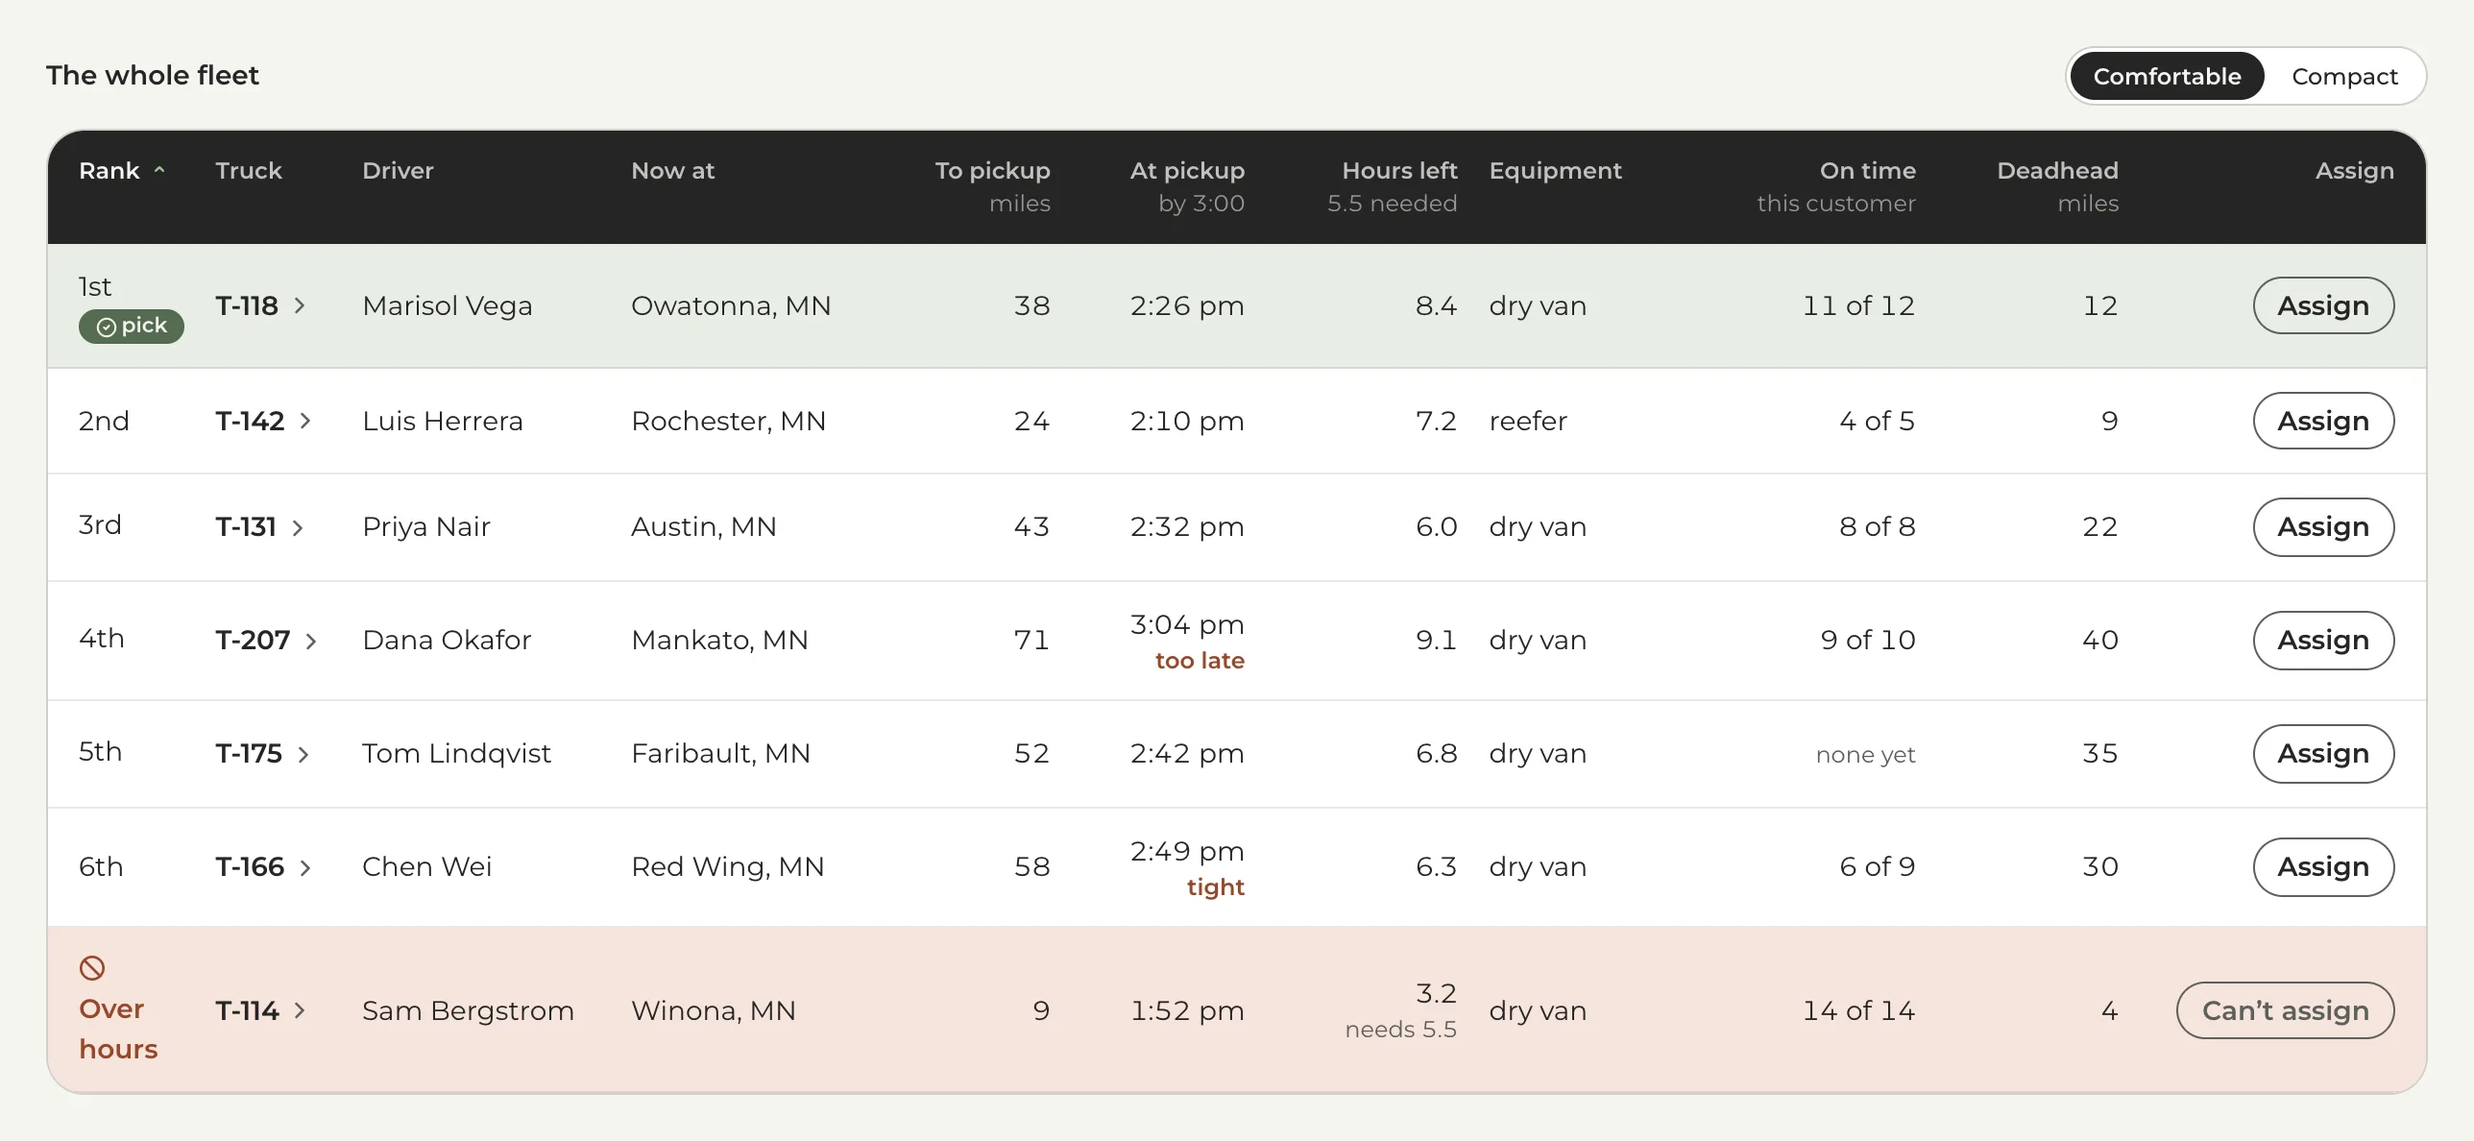
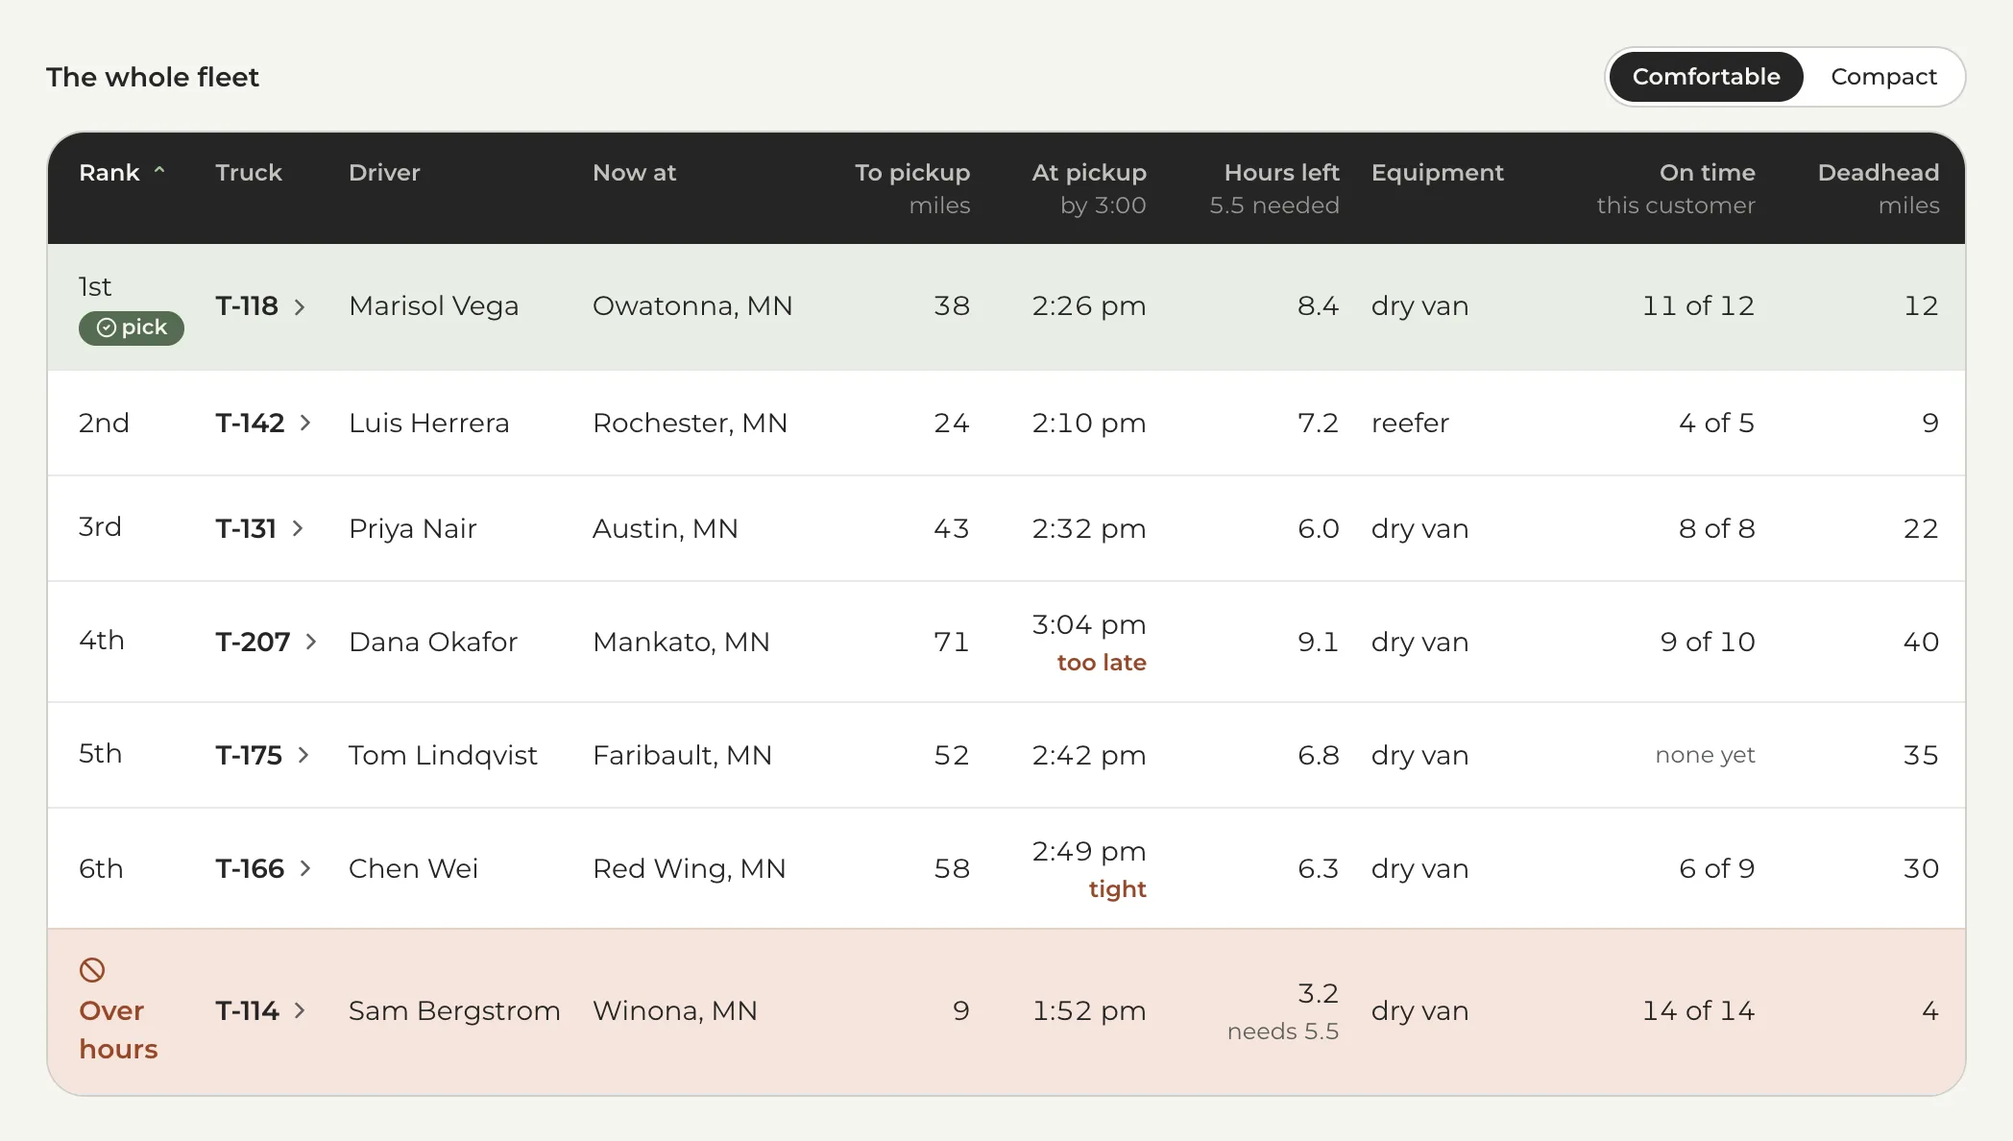
The five decisions put the argument at its measure and every capture at its own size
The section split the container in half and let four of the seven captures
span the whole row, which put two pictures of the same interface on screen
at wildly different scales and presented them as though they were at one.
The rule card is 651px drawn and was printed at 1216, an enlargement of
1.87 -- the frame shouting over the paragraph it is evidence for. The
close-call decision kept its copy in one half with nothing in the other,
then a slab underneath: the void was the awkward part, not the picture.

Now the copy column is set from the measure at 28rem and the pictures are
capped individually, each at the size it was drawn -- half its file, since
these are taken at two device pixels to one. Nothing is sized to a fraction
of the container. The two decisions whose evidence is a whole screen run in
one column with the picture under the argument and aligned to it, so the
disc is the only thing left in the margin.

Their three captures are retaken at a 1080 viewport rather than 1320. The
data table is 60rem before it scrolls, so 1080 is the narrowest panel that
still holds it whole, and a screen now comes out about 1048 drawn and sits
inside the 64rem cap at very nearly 1:1 -- smaller at its own scale, rather
than the same picture shrunk.

The two-column split waits for 72rem. At 64rem the evidence column came out
470 and a 622px card capture was shrunk into it by a quarter, which is the
columns arriving before there is room for them.
[…]

diff --git a/prototype/dispatch-cockpit.html b/prototype/dispatch-cockpit.html
@@ -106,7 +106,7 @@
   <link rel="stylesheet" href="../type.css?v=5" />
   <link rel="stylesheet" href="../style.css?v=20260919a" />
   <link rel="stylesheet" href="../site-nav.css?v=20260918b" />
-  <link rel="stylesheet" href="dispatch-cockpit.css?v=30" />
+  <link rel="stylesheet" href="dispatch-cockpit.css?v=31" />
   <link rel="stylesheet" href="../read-aloud.css?v=2" />
   <!-- EMBED MODE, and why it is a flag on this page rather than a page of
        its own. The homepage's prototype card opens the cockpit in a tablet
@@ -674,7 +674,7 @@
                 </div>
               </details>
             </div>
-            <figure class="ckw-shot">
+            <figure class="ckw-shot ckw-shot--card">
               <div class="ckw-scroll">
                 <img src="../img/cockpit/factors.webp?v=7" width="1244" height="1566" loading="lazy" decoding="async" alt="The recommendation card for truck T-118, headed &ldquo;What went into the call&rdquo;. Under the truck and its location, a line reads &ldquo;At pickup by 2:26 pm, in the window, 34 min of room&rdquo;. Then five factors with their values and whether each helps, meets or is neutral, three of them with a small line under the name saying where the figure came from and how long ago, each over a bar showing where the truck sits against the fleet, then a key to the bars, a note about what the comparison is not, and an Assign button." />
               </div>
@@ -693,15 +693,15 @@
                 </div>
               </details>
             </div>
-            <figure class="ckw-shot ckw-shot--wide">
+            <figure class="ckw-shot">
               <ol class="ckw-frames">
-                <li>
+                <li class="ckw-frame--rule">
                   <div class="ckw-scroll">
                     <img src="../img/cockpit/rule.webp?v=2" width="1302" height="394" loading="lazy" decoding="async" alt="A caution-outlined card reading &ldquo;T-114, Sam Bergstrom, can&rsquo;t take this load. Needs 5.5 h, has 3.2 h left. The hours-of-service limit, not a score. Otherwise it would rank first: 9 mi to pickup, 14 of 14 on time with Northfield Foods, 4 mi of deadhead. None of that changes the rule.&rdquo;" />
                   </div>
                   <p class="ckw-frame-cap"><span>A rule</span> Removes the truck before scoring, and keeps its row and its reason.</p>
                 </li>
-                <li>
+                <li class="ckw-frame--stale">
                   <div class="ckw-scroll">
                     <img src="../img/cockpit/stale.webp?v=6" width="1776" height="518" loading="lazy" decoding="async" alt="Under the close-call heading, a note on the caution ground with a clock glyph: &ldquo;T-131&rsquo;s hours are 45 minutes old. The last reading left 30 minutes to spare on this run. Check the logbook before assigning T-131.&rdquo;" />
                   </div>
@@ -711,7 +711,7 @@
             </figure>
           </li>
 
-          <li class="ckw-decision">
+          <li class="ckw-decision ckw-decision--screen">
             <div class="ckw-decision-copy">
               <h3>Make disagreement cheap</h3>
               <p class="ckw-lead">The dispatcher has the phone call the system cannot hear. Assign sits on every row the rule allows, with no dialog in the way. The question about why comes after, is optional, and Skip weighs the same as Save.</p>
@@ -723,17 +723,17 @@
                 </div>
               </details>
             </div>
-            <figure class="ckw-shot ckw-shot--wide">
+            <figure class="ckw-shot">
               <ol class="ckw-frames">
                 <li>
                   <div class="ckw-scroll">
-                    <img src="../img/cockpit/override-choose.webp?v=5" width="2572" height="532" loading="lazy" decoding="async" alt="The top of the fleet data table: a head row of sortable columns, then the recommended truck T-118 and two others, each row ending in an Assign button that is present whether or not the system picked that truck." />
+                    <img src="../img/cockpit/override-choose.webp?v=6" width="2278" height="532" loading="lazy" decoding="async" alt="The top of the fleet data table: a head row of sortable columns, then the recommended truck T-118 and two others, each row ending in an Assign button that is present whether or not the system picked that truck." />
                   </div>
                   <p class="ckw-frame-cap"><span>First</span> Assign sits at the end of every row the rule allows, not only the recommended one.</p>
                 </li>
                 <li>
                   <div class="ckw-scroll">
-                    <img src="../img/cockpit/override-after.webp?v=10" width="2576" height="1120" loading="lazy" decoding="async" alt="After an override: a status line reading that load L-4821 is assigned to T-114, the truck ranked 3rd, with its pickup time, its room against the window and the driver hours left after the run, and an optional question below it offering three reasons, a free-text box, a note about what happens with the answer, and Save the reason and Skip buttons." />
+                    <img src="../img/cockpit/override-after.webp?v=11" width="2096" height="1120" loading="lazy" decoding="async" alt="After an override: a status line reading that load L-4821 is assigned to T-114, the truck ranked 3rd, with its pickup time, its room against the window and the driver hours left after the run, and an optional question below it offering three reasons, a free-text box, a note about what happens with the answer, and Save the reason and Skip buttons." />
                   </div>
                   <p class="ckw-frame-cap"><span>Then</span> The assignment and what it means: pickup time, room against the window, hours left after the run. The question, afterwards and optional; Undo takes the place of Assign on the row, and sits out a double press.</p>
                 </li>
@@ -753,7 +753,7 @@
                 </div>
               </details>
             </div>
-            <figure class="ckw-shot">
+            <figure class="ckw-shot ckw-shot--card">
               <div class="ckw-scroll">
                 <img src="../img/cockpit/outcomes.webp?v=6" width="1244" height="1132" loading="lazy" decoding="async" alt="The Outcomes on similar loads card, expanded: 38 of the last 40 on time, a note that the history is illustrative, two numbered lines headed What to watch for on this load, and under a rule the two late deliveries listed with what differed on each." />
               </div>
@@ -761,7 +761,7 @@
             </figure>
           </li>
 
-          <li class="ckw-decision">
+          <li class="ckw-decision ckw-decision--screen">
             <div class="ckw-decision-copy">
               <h3>Keep the whole fleet in reach</h3>
               <p class="ckw-lead">The recommendation is assistance, not the only route through the task. Every column sorts, every eligible row assigns, every row opens on the reasoning behind its place, and nothing is collapsed behind the suggestion. If the recommendation vanished tomorrow, this would still be a dispatch screen.</p>
@@ -772,9 +772,9 @@
                 </div>
               </details>
             </div>
-            <figure class="ckw-shot ckw-shot--wide">
+            <figure class="ckw-shot">
               <div class="ckw-scroll">
-                <img src="../img/cockpit/fleet.webp?v=5" width="2576" height="1188" loading="lazy" decoding="async" alt="The whole fleet data table under a heading reading &ldquo;The whole fleet&rdquo; and a Comfortable or Compact row-height switch. Seven trucks ranked, each with distance, the time it would reach the pickup, hours left, equipment, on-time record and deadhead, a chevron beside the truck number that opens the row, and an Assign button. T-207 shows 3:04 pm marked &ldquo;too late&rdquo; and T-166 shows 2:49 pm marked &ldquo;tight&rdquo;. The last row, T-114, is marked Over hours, shows 3.2 hours against 5.5 needed, and its button reads Can&rsquo;t assign." />
+                <img src="../img/cockpit/fleet.webp?v=6" width="2096" height="1188" loading="lazy" decoding="async" alt="The whole fleet data table under a heading reading &ldquo;The whole fleet&rdquo; and a Comfortable or Compact row-height switch. Seven trucks ranked, each with distance, the time it would reach the pickup, hours left, equipment, on-time record and deadhead, a chevron beside the truck number that opens the row, and an Assign button. T-207 shows 3:04 pm marked &ldquo;too late&rdquo; and T-166 shows 2:49 pm marked &ldquo;tight&rdquo;. The last row, T-114, is marked Over hours, shows 3.2 hours against 5.5 needed, and its button reads Can&rsquo;t assign." />
               </div>
               <figcaption>Every row opens on its own reasoning, the rows run comfortable or compact, and the one truck the rule removes keeps its row, its numbers and the reason.</figcaption>
             </figure>

diff --git a/prototype/dispatch-cockpit.css b/prototype/dispatch-cockpit.css
@@ -148,32 +148,32 @@
   gap: var(--space-2xl);
   align-items: start;
 }
-/* HALVES, BECAUSE A CAPTURE SHOULD NOT BE ENLARGED EITHER. This was a fixed
-   26rem of copy and 1fr of picture, on the argument that the prose stops
-   getting easier to read past the measure and every pixel the picture does
-   not get is a pixel of interface rendered smaller than it was drawn. The
-   second half of that was only half true, and the numbers say where it broke:
-   inside the 1280px container the card captures rendered 752px wide against
-   the 622px they were drawn at, which is not the picture keeping its size,
-   it is the picture being enlarged by a fifth. Upscaling a screenshot of an
-   interface softens every edge the interface drew crisply, and it makes two
-   cards shout over the prose they are evidence for.
+/* THE ARGUMENT AT ITS MEASURE, THE EVIDENCE AT ITS OWN SIZE. This was halves,
+   on the argument that a capture should not be enlarged and half the
+   container was near the size the card captures were drawn at. Half was
+   near, and near in the wrong direction: the card is 622 and half of the
+   container is 584, so the two card captures were the only pictures on the
+   site rendered UNDER their own scale, and every one of the four that span
+   the row was rendered over it -- the rule card worst, at 651 drawn and 1216
+   shown, which is an enlargement of 1.87 and is what makes that frame shout
+   over the paragraph it is evidence for.
 
-   At halves the card renders 584 against 622, or 0.94 -- which is what the
-   two full-row fleet captures below already do at 1216 against 1286. So at
-   the full container all four captures sit a hair under the size they were
-   drawn, rather than two of them at 1.21 and two at 0.95. That is also why no
-   zoom affordance came with this: a capture at its own scale has nothing left
-   to reveal, and a lightbox would be offering to undo an enlargement that is
-   no longer happening. (Below 64rem the layout stacks and .ckw-scroll takes
-   over, and a card capture in a column wider than 622px is still enlarged
-   there; that is the tablet range's own question, not this rule's.)
+   So the column is set from the copy instead, and the pictures are capped
+   individually below. 28rem is the measure at the lead's size once the disc
+   and its gap come out of it, which leaves 720 for the evidence at the full
+   container: enough for a card capture at 1:1, with the slack falling to the
+   right of it the way the copy's slack already falls to the right of the
+   text. Nothing here is sized to a fraction of the container any more.
 
-   The copy column keeps its measure -- .ckw-lead is capped at --measure, so
-   the half it now gets is wider than the line it sets, and the slack falls to
-   the right of the text rather than into it. */
-@media (min-width: 64rem) {
-  .ckw-decision { grid-template-columns: minmax(0, 1fr) minmax(0, 1fr); gap: var(--space-4xl); }
+   72rem and not the 64rem the halves used, because a fixed copy column
+   changes what the breakpoint has to buy. At 64rem the evidence column came
+   out 470 and a 622px card capture was shrunk into it by a quarter -- the
+   two columns arriving before there was room for them. Below 72rem the item
+   runs in one column and the card sits at 1:1 with ground beside it, which
+   is the better of the two arrangements at that width. */
+@media (min-width: 72rem) {
+  .ckw-decision { grid-template-columns: minmax(0, 28rem) minmax(0, 1fr); gap: var(--space-4xl); }
+  .ckw-decision .ckw-shot { margin-left: 0; }
 }
 .ckw-decision-copy {
   position: relative;
@@ -239,6 +239,31 @@
   border-radius: 12px;
   box-shadow: var(--shadow-media);
 }
+/* NOTHING IS PRINTED ABOVE THE SIZE IT WAS DRAWN, and the size a capture was
+   drawn at is half its file, because these are taken at two device pixels to
+   one. The ceiling is per capture and not per column: a column can only say
+   how much room there is, and four of these had been taking all of it, which
+   is how a 651px card came to be printed at 1216 next to a 1288px table
+   printed at the same 1216 -- two pictures at wildly different scales,
+   presented as though they were at one. Upscaling a screenshot softens every
+   edge the interface drew crisply, and it makes the frame argue louder than
+   the paragraph it is evidence for.
+
+   A floor still beats this ceiling at narrow widths, on purpose: min-width
+   wins over max-width in CSS, so .ckw-scroll below keeps its horizontal
+   scroll rather than shrinking a table into illegibility. */
+.ckw-shot img,
+.ckw-frames img { max-width: var(--shot-w, 100%); }
+/* The recommendation card and the record card, which are the same card
+   captured twice and so the same width. */
+.ckw-shot--card { --shot-w: 622px; }
+.ckw-frame--rule { --shot-w: 651px; }
+.ckw-frame--stale { --shot-w: 888px; }
+/* A whole screen, which is drawn at about 1048 and shown at very nearly
+   that. The cap is a round 64rem rather than the file's own width so that a
+   recapture at a slightly different viewport does not silently change the
+   width of the page. */
+.ckw-decision--screen .ckw-shot { --shot-w: 64rem; }
 .case-section .ckw-shot figcaption,
 .case-section .ckw-frame-cap {
   margin: var(--space-sm) 0 0;
@@ -253,16 +278,39 @@
    travels without the sentence around it has to say so itself. */
 .ckw-cap-label { font-weight: var(--weight-semibold); color: var(--color-caution-text); }
 
-/* THE DATA TABLE IS SHOWN AT THE SIZE IT IS READ AT. Two of the four captures
-   are the fleet, which is 1200px of interface because the argument it makes is
-   that seven trucks and five factors stay in reach at once. Inside the 1fr
-   column beside a paragraph it renders at about 0.6, which puts its type near
-   10px: the page would be claiming the table is legible while showing that it
-   is not. So those two span the row and sit under their copy instead of beside
-   it. It is the same reasoning that lets .ck-frame leave the container, and it
-   is decision 04 applied to the page rather than to the cockpit. */
+/* A SCREEN DOES NOT FIT BESIDE A PARAGRAPH, SO IT DOES NOT SIT BESIDE ONE.
+   Three of the seven captures are the fleet data table or the width of the
+   panel, and the table is 60rem of interface before it starts to scroll
+   because its argument is that seven trucks and five factors stay in reach
+   at once. In a 720px column that renders near 0.6, which puts its type at
+   10px: the page would be claiming the table is legible while showing that
+   it is not.
+
+   Those two decisions run in ONE column instead -- the argument at its
+   measure, the picture under it. The old arrangement kept the item in two
+   columns and let only the figure span, which left the copy in a 28rem
+   column with an empty 720px beside it and then a slab underneath. The void
+   was the awkward part, not the picture.
+
+   The three captures are taken at a 1080 viewport rather than 1320 (see
+   cockpit-shots.mjs), so a whole screen is about 1048 drawn and sits inside
+   the 64rem cap below at nearly 1:1, rather than being a 1288px file printed
+   as wide as the page can print it. */
+.ckw-decision--screen { gap: var(--space-2xl); }
+/* THE PICTURE LINES UP WITH THE PARAGRAPH, NOT WITH THE NUMBER. Wherever an
+   item runs in one column -- the two screen decisions at every width, and
+   all five between 64 and 72rem -- the figure takes the same indent the copy
+   takes, so the disc is the only thing left hanging in the margin and the
+   block has one left edge instead of two. Beside the copy it needs none: it
+   starts its own column there. Not below 64rem, where .ckw-scroll bleeds the
+   picture out through the gutter to the viewport and an indent would be
+   taking back the width that bleed exists to give. */
 @media (min-width: 64rem) {
-  .ckw-shot--wide { grid-column: 1 / -1; }
+  .ckw-shot { margin-left: calc(var(--ck-num) + var(--space-sm)); }
+}
+@media (min-width: 72rem) {
+  .ckw-decision--screen { grid-template-columns: minmax(0, 1fr); }
+  .ckw-decision--screen .ckw-shot { margin-left: calc(var(--ck-num) + var(--space-sm)); }
 }
 .ckw-frames {
   list-style: none;
@@ -498,7 +546,7 @@
     scrollbar-width: thin;
   }
   .ckw-scroll img { min-width: 38rem; }
-  .ckw-shot--wide .ckw-scroll img { min-width: 62rem; }
+  .ckw-decision--screen .ckw-scroll img { min-width: 62rem; }
 }
 
 /* ---------- The one drawing, and the one that closes ----------
